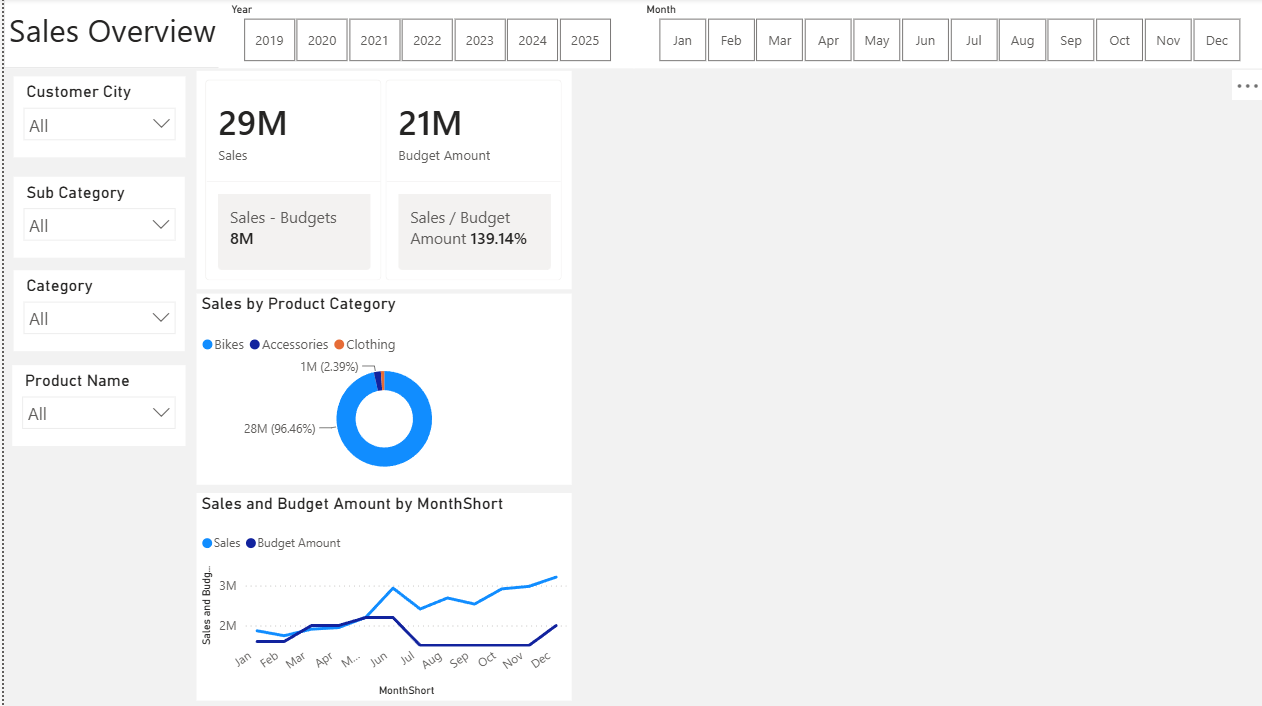
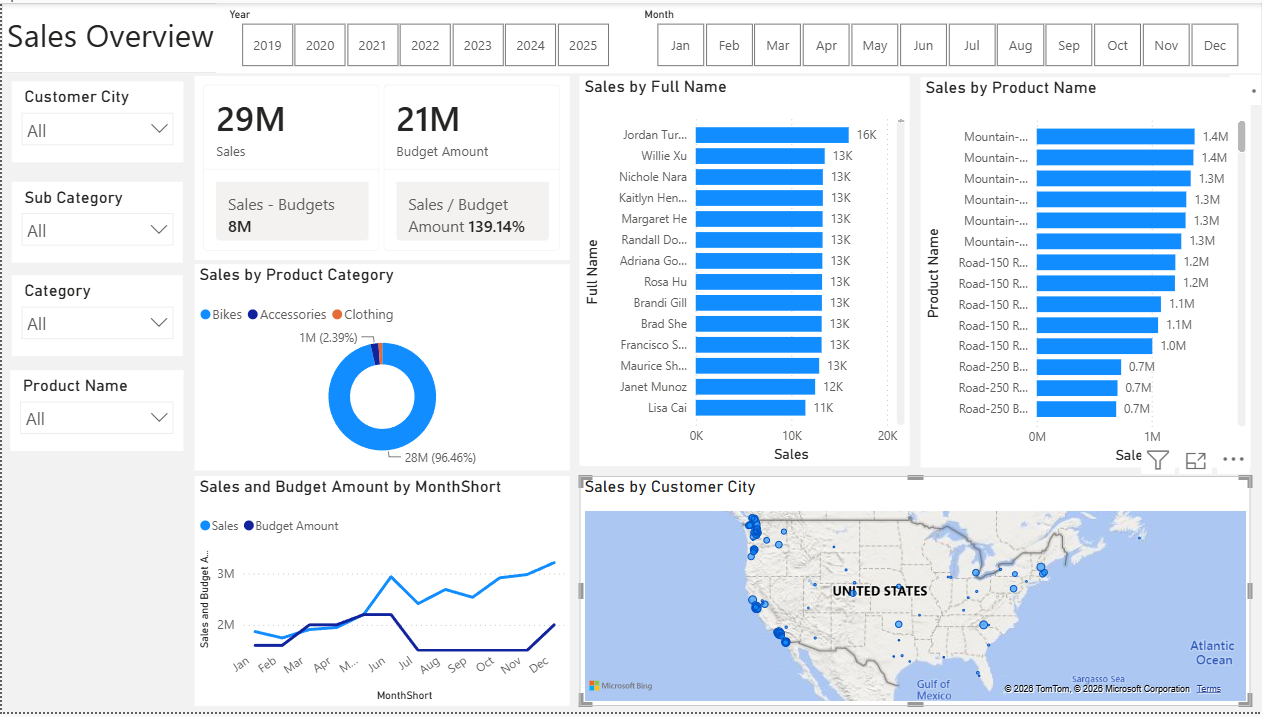
11 - Add Customer, Product, and Geographic Sales Visuals

diff --git a/README.md b/README.md
@@ -404,20 +404,20 @@ The Month slicer uses `MonthShort` from `DIM_Calendar`. The `MonthShort` column 
 
 ### 1. Key Measures Table
 
-A new table named `Key Measures` was created using **Enter Data** in Power BI.
+A table named `Key Measures` was created using **Enter Data** in Power BI.
 
-The purpose of this table is to provide a dedicated location for the report's measures rather than keeping them distributed across the source fact tables.
+The purpose of this table is to provide a dedicated location for the report's measures.
 
 The existing measures were moved into the `Key Measures` table and the automatically generated `Column1` field was removed.
 
-The measure formatting was also standardized:
+Measure formatting was standardized as follows:
 
 - Numeric measures were set to **Whole Number** format.
 - `Sales / Budget Amount` remained formatted as a percentage.
 
 ### 2. Sales & Budget Amount KPI
 
-The existing KPI/card visual was updated to display:
+A KPI/card visual was created using:
 
 - `Sales`
 - `Budget Amount`
@@ -428,12 +428,12 @@ The visual title was set to:
 Sales & Budget Amount
 ```
 
-Reference labels were also added to the KPI cards:
+Reference labels were also added:
 
 - **Sales - Budgets**
 - **Sales / Budget Amount**
 
-The KPI now provides a high-level comparison between actual sales and budget performance.
+The KPI provides a high-level comparison between actual sales and budget performance.
 
 ### 3. Sales by Product Category
 
@@ -444,9 +444,7 @@ The visual uses:
 - **Legend:** `Product Category`
 - **Values:** `Sales`
 
-The legend title was turned off and the legend was positioned at the **Top Left** of the visual.
-
-This allows the dashboard to show the contribution of each product category to total sales.
+The legend title was turned off and positioned at the **Top Left**.
 
 ### 4. Sales and Budget Amount by Month
 
@@ -458,7 +456,58 @@ The visual uses:
 - **Y-axis:** `Sales`
 - **Y-axis:** `Budget Amount`
 
-The chart provides a month-by-month comparison between actual sales and budget amounts and builds on the chronological sorting of `MonthShort` established during the dashboard skeleton stage.
+The chart provides a month-by-month comparison between actual sales and budget amounts.
+
+### 5. Sales by Customer
+
+A horizontal bar chart was created to show sales by customer.
+
+The visual uses:
+
+- **X-axis:** `Sales`
+- **Y-axis:** `Full Name`
+
+Data labels were enabled to display the sales value for each customer directly on the chart.
+
+The visual is titled:
+
+```text
+Sales by Full Name
+```
+
+This provides a detailed view of customer-level sales performance and supports the business requirement to identify high-performing customers.
+
+### 6. Sales by Product
+
+A second horizontal bar chart was created to show sales by individual product.
+
+The visual uses:
+
+- **X-axis:** `Sales`
+- **Y-axis:** `Product Name`
+
+Data labels were enabled to display the sales value for each product.
+
+The visual is titled:
+
+```text
+Sales by Product Name
+```
+
+This allows individual products to be compared based on sales performance.
+
+### 7. Sales by Customer City
+
+A map visual was added to analyze sales geographically.
+
+The visual uses:
+
+- **Location:** `Customer City`
+- **Bubble Size:** `Sales`
+
+Automatic zoom was turned off to keep the map view stable while exploring customer locations.
+
+The map provides a geographical view of where sales are being generated and supports location-based customer analysis.
 
 ### Current Dashboard Preview
 
@@ -466,16 +515,14 @@ The chart provides a month-by-month comparison between actual sales and budget a
 
 ## Upcoming Dashboard Development
 
-The next stage of dashboard development will focus on adding the remaining analytical components:
+The next stage of dashboard development will focus on:
 
-1. **Bar Charts**
-2. **Map Graph**
-3. **Top 10 Graphs**
-4. **Gradient Bar Chart Color**
-5. **Customer Details**
-6. **Pivot Table**
+1. **Top 10 Graphs**
+2. **Gradient Bar Chart Color**
+3. **Customer Details**
+4. **Pivot Table**
 
-These components will progressively transform the current dashboard into the final interactive sales analytics dashboard.
+These components will further develop the dashboard into the final interactive sales analytics solution.
 
 ## Project Workflow
 
@@ -496,10 +543,12 @@ These components will progressively transform the current dashboard into the fin
 15. Create KPI visuals
 16. Organize report measures in a dedicated measure table
 17. Create category and time-based sales visualizations
-18. Develop additional charts and analytical visuals
-19. Validate the dashboard against the business requirements
-20. Extract and document key business insights
-21. Finalize and publish the Power BI report
+18. Create customer and product sales visualizations
+19. Add geographical sales analysis
+20. Develop the remaining dashboard visuals
+21. Validate the dashboard against the business requirements
+22. Extract and document key business insights
+23. Finalize and publish the Power BI report
 
 ## Analysis
 
